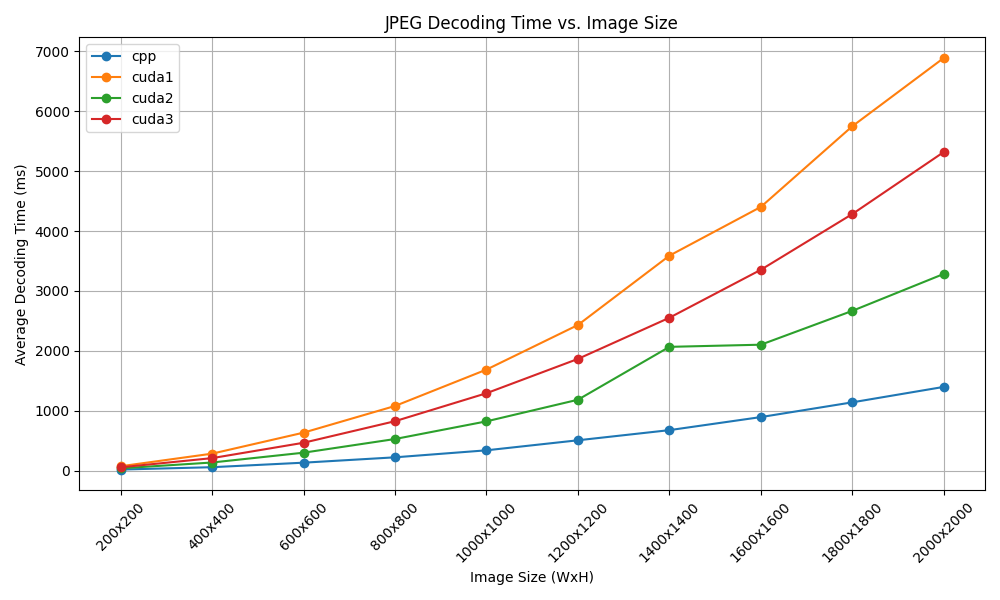
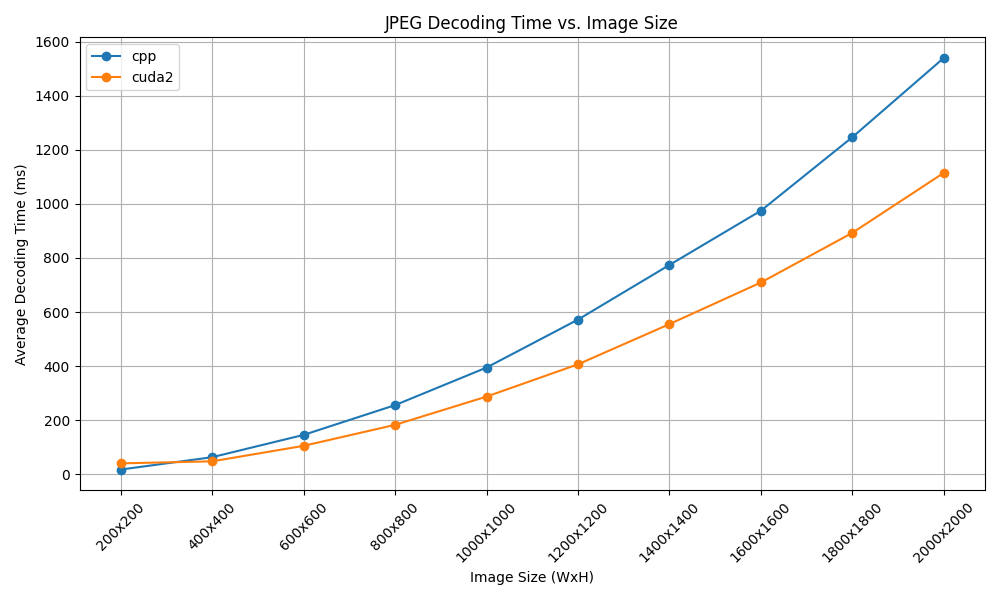
added some images

diff --git a/plots/plot_benchmark.py b/plots/plot_benchmark.py
@@ -3,7 +3,7 @@ import json
 import matplotlib.pyplot as plt
 from collections import defaultdict
 
-versions = ['cpp', 'cuda1', 'cuda2', 'cuda3']
+versions = ['cpp','cuda2']
 
 sizes = [200, 400, 600, 800, 1000, 1200, 1400, 1600, 1800, 2000]
 
